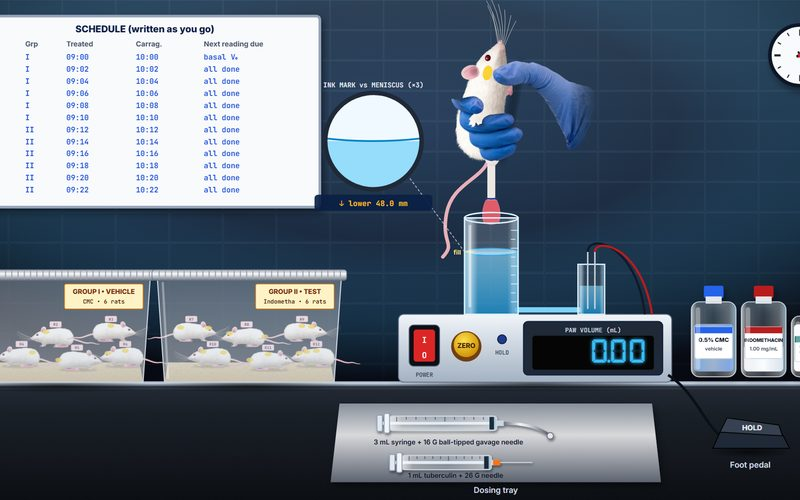
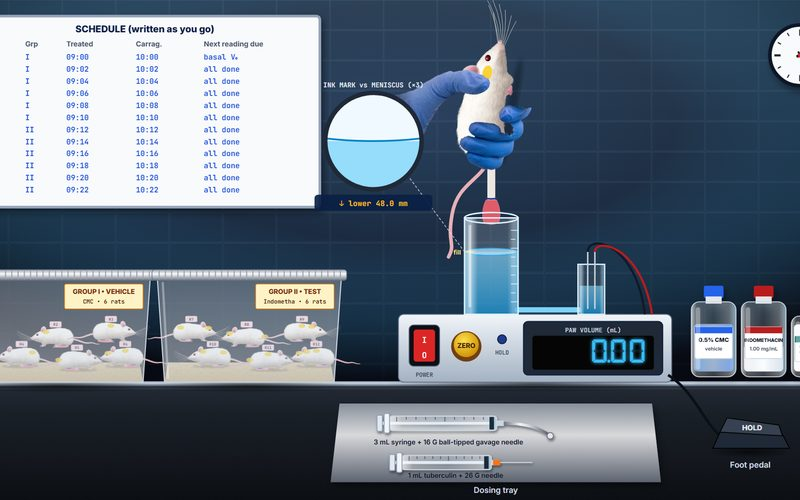
Make the photo hands actually hold the animals
Exp 04 and 09: the mouse's tail ended beside the fist. The fist render
is now glove only, and the bench draws one tapering tail from the rump,
through the gap between the fingers and out above the fist. The mouse
hangs from near the base of its tail, as the bench says.

Exp 21: the rat faces the other way from the render, which put the
thumb on its throat. The hand is mirrored so it holds from behind, with
the thumb behind the neck and the fingers round the chest. Thumbnail
re-shot.

Exp 01: the fingertips stopped short of the back in the i.m., i.p. and
oral poses. They now close on a raised fold of skin in every pose.

Changed region(s): [[0.5, 0.12, 0.75, 0.36], [0.5312, 0.36, 0.5938, 0.51], [0.5938, 0.0, 0.6562, 0.06]]

diff --git a/experiments/04-muscle-relaxant-activity-rota-rod.html b/experiments/04-muscle-relaxant-activity-rota-rod.html
@@ -854,7 +854,7 @@
       const rear = o.rear || 0, grm = o.groom || 0, st = o.step || 0;
       const sx = 1 - 0.28 * rear, rot = grm ? Math.sin(S.t * 3) * 6 : 0;
       const head = m && m.num && MARKS[m.num].s.some(s => s[0] === 22) ? '<ellipse cx="17" cy="0" rx="4" ry="3.4" fill="url(#picric)" opacity=".92"/>' : '';
-      return `<g transform="translate(${st * .4} 0) scale(${sx} 1) rotate(${rot})"><g transform="scale(1.5)">${animalTopArt({ kind: 'mouse' })}</g>
+      return `<g transform="translate(${st * .4} 0) scale(${sx} 1) rotate(${rot})"><g transform="scale(1.5)">${animalTopArt({ kind: 'mouse', noTail: o.noTail })}</g>
         <g opacity=".9">${markSpots(m && m.num, false)}</g>${head}</g>`;
     }
     // side view (in a cage / beaker)
@@ -862,12 +862,16 @@
       return `<g transform="scale(${flip ? -1 : 1} 1)">${animalSideArt({ kind: 'mouse' })}<g opacity=".9">${markSpots(m && m.num, true)}</g></g>`;
     }
     // gloved hand holding the mouse by the tail: a photo render, mirrored so the wrist leaves to the right, clear of the charts
+    // The tail of the mouse in the hand. It is held near its base: up from the rump, through the fist along the gap
+    // the render leaves between the fingers, and out above it, tapering to the tip.
+    const heldTail = () => tailArt('M0 27 C0.4 24 0.3 20 0 16 C-1.8 2 -3.6 -12 -5.3 -25.5 C-6.4 -34 -9 -41 -13 -48', 5.2, 2.2);
     function handHeld(x, y) {
       const m = held(); if (!m) return '';
       return `<g class="hot" data-act="hand" transform="translate(${x} ${y})" filter="url(#sh)">
-        <g transform="translate(0 112) rotate(90) scale(1.35)">${topMouse(m, { tailCurve: 0 })}</g>
+        <g transform="translate(0 74) rotate(90) scale(1.35)">${topMouse(m, { noTail: true })}</g>
+        ${heldTail()}
         <g transform="scale(-1 1)">${handArt('tail', -84, -43, 96)}</g>
-        ${tag(62, 36, m.num ? 'No. ' + m.num + ' in hand' : 'mouse in hand')}
+        ${tag(66, 40, m.num ? 'No. ' + m.num + ' in hand' : 'mouse in hand')}
       </g>`;
     }
     // polycarbonate cage with wire lid (front view); slots: list of mice to draw

diff --git a/experiments/09-locomotor-activity-actophotometer.html b/experiments/09-locomotor-activity-actophotometer.html
@@ -872,7 +872,7 @@
       const rear = o.rear || 0, grm = o.groom || 0, st = o.step || 0;
       const sx = 1 - 0.28 * rear, rot = grm ? Math.sin(S.t * 3) * 6 : 0;
       const head = m && m.num && MARKS[m.num].s.some(s => s[0] === 22) ? '<ellipse cx="17" cy="0" rx="4" ry="3.4" fill="url(#picric)" opacity=".92"/>' : '';
-      return `<g transform="translate(${st * .4} 0) scale(${sx} 1) rotate(${rot})"><g transform="scale(1.5)">${animalTopArt({ kind: 'mouse' })}</g>
+      return `<g transform="translate(${st * .4} 0) scale(${sx} 1) rotate(${rot})"><g transform="scale(1.5)">${animalTopArt({ kind: 'mouse', noTail: o.noTail })}</g>
         <g opacity=".9">${markSpots(m && m.num, false)}</g>${head}</g>`;
     }
     // side view (in a cage / beaker)
@@ -880,12 +880,16 @@
       return `<g transform="scale(${flip ? -1 : 1} 1)">${animalSideArt({ kind: 'mouse' })}<g opacity=".9">${markSpots(m && m.num, true)}</g></g>`;
     }
     // gloved hand holding the mouse by the tail: a photo render, mirrored so the wrist leaves to the right, clear of the charts
+    // The tail of the mouse in the hand. It is held near its base: up from the rump, through the fist along the gap
+    // the render leaves between the fingers, and out above it, tapering to the tip.
+    const heldTail = () => tailArt('M0 27 C0.4 24 0.3 20 0 16 C-1.8 2 -3.6 -12 -5.3 -25.5 C-6.4 -34 -9 -41 -13 -48', 5.2, 2.2);
     function handHeld(x, y) {
       const m = held(); if (!m) return '';
       return `<g class="hot" data-act="hand" transform="translate(${x} ${y})" filter="url(#sh)">
-        <g transform="translate(0 112) rotate(90) scale(1.35)">${topMouse(m, { tailCurve: 0 })}</g>
+        <g transform="translate(0 74) rotate(90) scale(1.35)">${topMouse(m, { noTail: true })}</g>
+        ${heldTail()}
         <g transform="scale(-1 1)">${handArt('tail', -84, -43, 96)}</g>
-        ${tag(62, 36, m.num ? 'No. ' + m.num + ' in hand' : 'mouse in hand')}
+        ${tag(66, 40, m.num ? 'No. ' + m.num + ' in hand' : 'mouse in hand')}
       </g>`;
     }
     // polycarbonate cage with wire lid (front view); slots: list of mice to draw

diff --git a/static/assets/js/animal-art.js b/static/assets/js/animal-art.js
@@ -37,6 +37,7 @@
   }
 
   // tapered, ringed tail built from an SVG cubic chain
+  // A tapering, ringed tail along a path of cubic curves, w0 wide at its start and w1 at its tip
   function tailArt(d, w0, w1) {
     const n = (d.match(/-?\d*\.?\d+/g) || []).map(Number), P = [[n[0], n[1]]];
     for (let i = 2; i + 5 < n.length; i += 6) {
@@ -326,7 +327,7 @@
 
   // Photo renders of a blue nitrile glove, cut out by tools/hand-sprites and laid over the animal a bench draws.
   // name: scruff | tail | hold. (x, y) is the top left corner and w the width, in the caller's units.
-  const HAND_VER = 2, HAND_BASE = new URL('../img/hands/', document.currentScript.src).href;
+  const HAND_VER = 3, HAND_BASE = new URL('../img/hands/', document.currentScript.src).href;
   const HAND_SIZE = { scruff: [640, 415], tail: [640, 413], hold: [640, 434] };
   function handArt(name, x, y, w, attrs = '') {
     const [pw, ph] = HAND_SIZE[name], url = `${HAND_BASE}${name}.webp?v=${HAND_VER}`;
@@ -334,5 +335,5 @@
     return `<image x="${f2(x)}" y="${f2(y)}" width="${f2(w)}" height="${f2(w * ph / pw)}" preserveAspectRatio="none" decoding="sync" ${attrs} href="${url}"/>`;
   }
 
-  Object.assign(global, { handArt, ANI_DEFS, animalSideArt, animalTopArt, realRabbitHead, realRabbitEye, realRabbitLid, realRabbitEyeView, rabbitPose, animateRabbit, guineaPigPose, realGuineaPig, realFrogBody, realFrogLeg, frogVentralArt, frogPlate, frogPlateUrl, openFrogAnatomy });
+  Object.assign(global, { handArt, tailArt, ANI_DEFS, animalSideArt, animalTopArt, realRabbitHead, realRabbitEye, realRabbitLid, realRabbitEyeView, rabbitPose, animateRabbit, guineaPigPose, realGuineaPig, realFrogBody, realFrogLeg, frogVentralArt, frogPlate, frogPlateUrl, openFrogAnatomy });
 })(window);

diff --git a/experiments/01-routes-of-drug-administration.html b/experiments/01-routes-of-drug-administration.html
@@ -657,8 +657,8 @@
 
     // Nitrile-gloved hand pinching the scruff between index finger and thumb (local mouse coordinates)
     function glovedHand() {
-      // a photo render: thumb and index finger meet over the shoulders, behind the ear, the wrist fades out to the upper right
-      return `<g class="hand" transform="rotate(-24 5 -25)">${handArt('scruff', -10, -90, 112)}</g>`;
+      // a photo render: thumb and index finger meet over the shoulders, behind the ear, on the fold of skin they lift, the wrist fades out to the upper right
+      return `<path d="M -5 -18 Q 5 -33 15 -18 Z" fill="url(#furGrad)" stroke="#e2dbd8" stroke-width="0.4"/><g class="hand" transform="rotate(-24 5 -25)">${handArt('scruff', -10, -87.5, 112)}</g>`;
     }
 
     // Perspex restrainer for tail-vein injection (tail exits through the rear plug)

diff --git a/experiments/21-anti-inflammatory-activity-carrageenan-paw-oedema.html b/experiments/21-anti-inflammatory-activity-carrageenan-paw-oedema.html
@@ -854,8 +854,9 @@
     }
     // gloved hand (for held-animal views)
     function handMarkup() {
-      // a photo render in the units of #hrHand: the thumb rests behind the neck and the fingers close round the chest
-      return handArt('hold', -66, -84, 236);
+      // a photo render in the units of #hrHand, mirrored because the rat faces right: the hand comes from behind,
+      // the thumb rests behind the neck and the fingers close round the chest
+      return `<g transform="scale(-1 1)">${handArt('hold', -62, -70, 236)}</g>`;
     }
 
     // ------------------------------------------------ stations, click routing, checklist + hints

diff --git a/tools/hand-sprites/cut.py b/tools/hand-sprites/cut.py
@@ -75,7 +75,7 @@ rgb, lab, keep, c = load('b')
 middle = rgb.shape[0] * 0.58
 save('hold', rgb, np.isin(lab, [i for i in keep if c[i][0] < middle]), fade='right', over=0.2)
 
-# d: a fist with the tail running through it. The stretch of tail that crosses the fingers stays in the sprite,
-# so the bench only has to bring its own tail up to the bottom of the fist.
-rgb, lab, keep, c = load('d', bridge=30)
-save('tail', rgb, lab == max(keep, key=lambda i: (lab == i).sum()), fade='left', over=0.08)
+# d: a fist with the tail running through it. Only the glove is kept, in the two or three pieces the tail
+# divides it into: the bench draws its own tail behind the sprite, and it shows through that gap.
+rgb, lab, keep, c = load('d')
+save('tail', rgb, np.isin(lab, keep), fade='left', over=0.08)

diff --git a/static/assets/img/hands/README.md b/static/assets/img/hands/README.md
@@ -5,8 +5,8 @@ Photo-style renders of a blue nitrile glove, laid over the animal a bench draws.
 | File | Used in | Pose |
 |---|---|---|
 | `scruff.webp` | Exp 01, routes of administration | Thumb and index finger lifting the scruff |
-| `tail.webp` | Exp 04 Rota-Rod and Exp 09 actophotometer | A fist with the tail running through it (drawn mirrored) |
-| `hold.webp` | Exp 21, paw oedema | Thumb behind the neck, fingers round the chest |
+| `tail.webp` | Exp 04 Rota-Rod and Exp 09 actophotometer | A fist, drawn mirrored. The bench draws the tail itself, through the gap between the fingers |
+| `hold.webp` | Exp 21, paw oedema | Thumb behind the neck, fingers round the chest (drawn mirrored, because the rat faces right) |
 
 They are drawn by `handArt()` in `static/assets/js/animal-art.js`.
 
